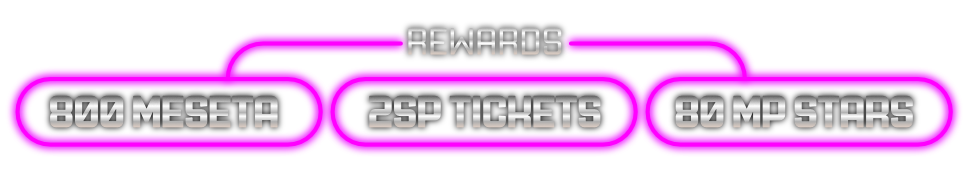
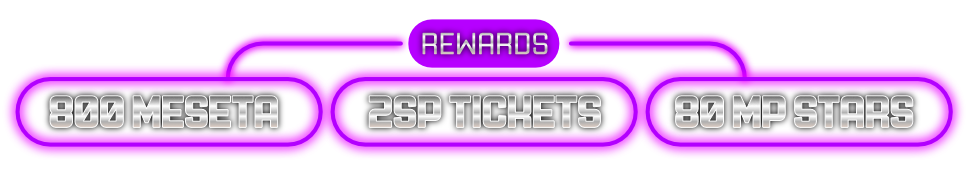
Add files via upload

Changed region(s): [[0.0309, 0.0838, 0.9897, 0.838], [0.0, 0.4749, 0.2784, 0.7542]]

diff --git a/index.html b/index.html
@@ -1,5 +1,5 @@
 <!DOCTYPE html>
-<html>
+<html style="border-radius: 14px;">
 
 <head>
     <meta charset="utf-8">
@@ -35,7 +35,7 @@
                 <div class="col-xl-6 offset-xl-0" style="padding-bottom: 0px;margin-bottom: 7px;">
                     <h3 class="text-center" style="border-radius: 0px;border-bottom-left-radius: 13px;border-bottom-right-radius: 13px;background: rgba(255,255,255,0.75);border: 11px none rgb(158,0,255);border-bottom-width: 4px;border-bottom-style: solid;color: #9e00ff;font-weight: bold;border-top-left-radius: 13px;border-top-right-radius: 13px;font-family: 'Nova Square', cursive;">SCRATCH UPDATES</h3>
                     <div class="card" data-bs-hover-animate="rubberBand" style="background: rgba(255,255,255,0.22);border-radius: 13px;margin-bottom: 10px;">
-                        <div class="card-header" style="background: rgba(255,255,255,0.22);border-radius: 0px;border-top-left-radius: 13px;border-top-right-radius: 13px;"><img src="assets/img/Scratch1.png" style="width: 100%;border-radius: 12px;font-family: 'Nova Square', cursive;margin-top: -12px;margin-bottom: 14px;border-top-left-radius: 0px;border-bottom-right-radius: -5px;border-top-right-radius: 0px;border-style: none;border-right-style: solid;border-right-color: #f34cfe;border-bottom-style: solid;border-bottom-color: #f34cfe;border-left-style: solid;border-left-color: #f34cfe;"></div>
+                        <div class="card-header" style="background: rgba(255,255,255,0.22);border-radius: 0px;border-top-left-radius: 13px;border-top-right-radius: 13px;"><img src="assets/img/Scratch1.png" style="width: 100%;border-radius: 12px;font-family: 'Nova Square', cursive;margin-top: -12px;margin-bottom: 14px;border-top-left-radius: 0px;border-bottom-right-radius: -5px;border-top-right-radius: 0px;border-style: none;border-right-style: solid;border-right-color: #9e00ff;border-bottom-style: solid;border-bottom-color: #9e00ff;border-left-style: solid;border-left-color: #9e00ff;"></div>
                         <div
                             class="card-body" style="background: rgba(255,255,255,0.22);border-radius: 13px;border-bottom-right-radius: -13px;border-bottom-left-radius: -13px;border-style: none;border-bottom: 3px solid #9e00ff;border-top-left-radius: -0px;border-top-right-radius: 0px;backdrop-filter: blur(5px);box-shadow: 0px 0px 4px;">
                             <div style="height: 37px;width: 90px;background: #4cfe7e;border-width: 68px;border-radius: 28px;">
@@ -44,7 +44,7 @@
                     </div>
                 </div>
                 <div class="card" data-bs-hover-animate="rubberBand" style="background: rgba(255,255,255,0.22);border-radius: 13px;margin-bottom: 10px;">
-                    <div class="card-header" style="background: rgba(255,255,255,0.22);border-radius: 0px;border-top-left-radius: 13px;border-top-right-radius: 13px;"><img src="assets/img/Scratch2-1.png" style="width: 100%;border-radius: 12px;font-family: 'Nova Square', cursive;margin-top: -12px;margin-bottom: 14px;border-top-left-radius: 0px;border-bottom-right-radius: -5px;border-top-right-radius: 0px;border-style: none;border-right-style: solid;border-right-color: #f34cfe;border-bottom-style: solid;border-bottom-color: #f34cfe;border-left-style: solid;border-left-color: #f34cfe;"></div>
+                    <div class="card-header" style="background: rgba(255,255,255,0.22);border-radius: 0px;border-top-left-radius: 13px;border-top-right-radius: 13px;"><img src="assets/img/Scratch2-1.png" style="width: 100%;border-radius: 12px;font-family: 'Nova Square', cursive;margin-top: -12px;margin-bottom: 14px;border-top-left-radius: 0px;border-bottom-right-radius: -5px;border-top-right-radius: 0px;border-width: 4px;border-style: none;border-right-style: solid;border-right-color: #9e00ff;border-bottom-style: solid;border-bottom-color: #9e00ff;border-left-style: solid;border-left-color: #9e00ff;"></div>
                     <div
                         class="card-body" style="background: rgba(255,255,255,0.22);border-radius: 13px;border-bottom-right-radius: -13px;border-bottom-left-radius: -13px;border-style: none;border-bottom: 3px solid #9e00ff;border-top-left-radius: -0px;border-top-right-radius: 0px;backdrop-filter: blur(5px);box-shadow: 0px 0px 4px;">
                         <div style="height: 37px;width: 123px;background: #fe4c4c;border-width: 68px;border-radius: 28px;">
@@ -56,12 +56,12 @@
         <div class="col-xl-6 offset-xl-0 mx-auto" style="padding-bottom: 10px;">
             <h3 class="text-center" style="border-radius: 0px;box-shadow: 0px 7px 11px rgba(0,0,0,0.4);border-bottom-left-radius: 13px;border-bottom-right-radius: 13px;background: rgba(255,255,255,0.74);border: 11px none #9e00ff;border-bottom-width: 4px;border-bottom-style: solid;color: #9e00ff;border-top-right-radius: 13px;border-top-left-radius: 13px;font-family: 'Nova Square', cursive;font-weight: bold;">WEEKLY TASK</h3>
             <div class="card" data-bs-hover-animate="rubberBand" style="background: rgba(255,255,255,0.22);border-radius: 13px;margin-bottom: 11px;">
-                <div class="card-header" style="background: rgba(255,255,255,0.22);border-radius: 0px;border-top-left-radius: 13px;border-top-right-radius: 13px;"><img src="assets/img/cdfscfds.png" style="width: 100%;border-radius: 14px;border-bottom-right-radius: 13px;border-bottom-left-radius: 13px;border-top-left-radius: 0px;border-top-right-radius: 0pc;border-width: 3px;border-right-style: solid;border-right-color: #f34cfe;border-bottom-style: solid;border-bottom-color: #f34cfe;border-left-style: solid;border-left-color: #f34cfe;margin-top: -12px;margin-bottom: 13px;"></div>
+                <div class="card-header" style="background: rgba(255,255,255,0.22);border-radius: 0px;border-top-left-radius: 13px;border-top-right-radius: 13px;"><img src="assets/img/sdadsaasdsad-1.png" style="width: 100%;border-radius: 14px;border-bottom-right-radius: 13px;border-bottom-left-radius: 13px;border-top-left-radius: 0px;border-top-right-radius: 0pc;margin-top: -12px;margin-bottom: 13px;border-width: 3px;border-right-style: solid;border-right-color: #9e00ff;border-bottom-style: solid;border-bottom-color: #9e00ff;border-left-style: solid;border-left-color: #9e00ff;"></div>
                 <div
                     class="card-body" style="background: rgba(255,255,255,0.22);border-radius: 13px;border-bottom-right-radius: -13px;border-bottom-left-radius: -13px;border-style: none;border-bottom: 3px solid #9e00ff;border-top-left-radius: -0px;border-top-right-radius: 0px;backdrop-filter: blur(5px);box-shadow: 0px 0px 4px;"><img class="img-fluid" src="assets/img/dedewdewdwe.png" style="width: 501px;"></div>
         </div>
         <div class="card" data-bs-hover-animate="rubberBand" style="background: rgba(255,255,255,0.22);border-radius: 13px;">
-            <div class="card-header" style="background: rgba(255,255,255,0.22);border-radius: 0px;border-top-left-radius: 13px;border-top-right-radius: 13px;"><img src="assets/img/hbhb.png" style="width: 100%;border-radius: 14px;border-bottom-right-radius: 13px;border-bottom-left-radius: 13px;border-top-left-radius: 0px;border-top-right-radius: 0pc;border-width: 3px;border-right-style: solid;border-right-color: #f34cfe;border-bottom-style: solid;border-bottom-color: #f34cfe;border-left-style: solid;border-left-color: #f34cfe;margin-top: -12px;margin-bottom: 13px;"></div>
+            <div class="card-header" style="background: rgba(255,255,255,0.22);border-radius: 0px;border-top-left-radius: 13px;border-top-right-radius: 13px;"><img src="assets/img/hbhb-1.png" style="width: 100%;border-radius: 14px;border-bottom-right-radius: 13px;border-bottom-left-radius: 13px;border-top-left-radius: 0px;border-top-right-radius: 0pc;margin-top: -12px;margin-bottom: 13px;border-width: 3px;border-right-style: solid;border-right-color: #9e00ff;border-bottom-style: solid;border-bottom-color: #9e00ff;border-left-style: solid;border-left-color: #9e00ff;"></div>
             <div
                 class="card-body" style="background: rgba(255,255,255,0.22);border-radius: 13px;border-bottom-right-radius: -13px;border-bottom-left-radius: -13px;border-style: none;border-bottom: 3px solid #9e00ff;border-top-left-radius: -0px;border-top-right-radius: 0px;backdrop-filter: blur(5px);box-shadow: 0px 0px 4px;"><img class="img-fluid" src="assets/img/sxcscssdc.png" style="width: 501px;"></div>
     </div>
@@ -69,25 +69,25 @@
     <div class="col-xl-6 offset-xl-0 flex-wrap" style="padding-bottom: px;">
         <h3 class="text-center" style="border-radius: 0px;box-shadow: 0px 7px 11px rgba(0,0,0,0.4);border-bottom-left-radius: 13px;border-bottom-right-radius: 13px;background: rgba(255,255,255,0.74);color: #9e00ff;border-top-left-radius: 13px;border-top-right-radius: 13px;font-family: 'Nova Square', cursive;border: 11px none #9e00ff;font-weight: bold;border-bottom-width: 4px;border-bottom-style: solid;">CONTENT UPDATES</h3>
         <div class="card" data-bs-hover-animate="rubberBand" style="background: rgba(255,255,255,0.22);border-radius: 13px;margin-bottom: 10px;">
-            <div class="card-header" style="background: rgba(255,255,255,0.22);border-radius: 0px;border-top-left-radius: 13px;border-top-right-radius: 13px;"><img src="assets/img/Region1.png" style="width: 100%;border-radius: 12px;border-right-style: solid;border-right-color: #f34cfe;border-bottom-style: solid;border-bottom-color: #f34cfe;border-left-style: solid;border-left-color: #f34cfe;margin-top: -12px;border-top-left-radius: 0px;border-top-right-radius: 0px;border-bottom-right-radius: 14px;border-bottom-left-radius: 14px;margin-bottom: 13px;"></div>
+            <div class="card-header" style="background: rgba(255,255,255,0.22);border-radius: 0px;border-top-left-radius: 13px;border-top-right-radius: 13px;"><img src="assets/img/Region1.png" style="width: 100%;border-radius: 12px;margin-top: -12px;border-top-left-radius: 0px;border-top-right-radius: 0px;border-bottom-right-radius: 14px;border-bottom-left-radius: 14px;margin-bottom: 13px;border-right-style: solid;border-right-color: #9e00ff;border-bottom-style: solid;border-bottom-color: #9e00ff;border-left-style: solid;border-left-color: #9e00ff;"></div>
             <div
                 class="card-body" style="background: rgba(255,255,255,0.22);border-radius: 13px;border-bottom-right-radius: -13px;border-bottom-left-radius: -13px;border-style: none;border-bottom: 3px solid #9e00ff;border-top-left-radius: -0px;border-top-right-radius: 0px;backdrop-filter: blur(5px);box-shadow: 0px 0px 4px;">
-                <div class="text-center"><a class="btn btn-primary text-center d-flex justify-content-center justify-content-xl-center" data-toggle="collapse" aria-expanded="false" aria-controls="collapse-1" href="#collapse-1" role="button" style="background: rgba(255,255,255,0.48);border-radius: 98px;border: 4px solid #f34cfe;color: #9e00ff;">MORE DETAIL</a>
+                <div class="text-center"><a class="btn btn-primary text-center d-flex justify-content-center justify-content-xl-center" data-toggle="collapse" aria-expanded="false" aria-controls="collapse-2" href="#collapse-2" role="button" style="background: rgba(255,255,255,0.48);border-radius: 98px;color: #9e00ff;border: 4px solid #9e00ff ;">MORE DETAIL</a>
                     <div
-                        class="collapse" id="collapse-1">
-                        <p class="text-left" style="padding-top: 17px;padding-bottom: 27px;margin-bottom: -23px;padding-right: 10px;padding-left: 10px;"><strong>Story Chapter 4</strong><br><strong>Class Level 70</strong><br><strong>New Class Skills</strong><br><strong>Stia Quests</strong><br><strong>Fields Races</strong><br><strong>New Augments</strong><br></p>
+                        class="collapse" id="collapse-2">
+                        <p class="text-left" style="padding-top: 10px;padding-bottom: 10px;margin-bottom: -1px;font-size: 16px;text-align: center;font-weight: bold;font-style: normal;font-family: 'Nova Square', cursive;padding-left: 10px;padding-right: 10px;overflow-y: auto;height: 220px;margin-top: 13px;border-radius: 14px;border: 4px solid #9e00ff ;"><strong>Story Chapter 4</strong><br><strong>Class Level 70</strong><br><strong>New Class Skills</strong><br><strong>Stia Quests</strong><br><strong>Fields Races</strong><br><strong>New Augments</strong><br><br></p>
                 </div>
         </div>
     </div>
     </div>
     <div class="card" data-bs-hover-animate="rubberBand" style="background: rgba(255,255,255,0.22);border-radius: 13px;margin-bottom: 10px;">
-        <div class="card-header" style="background: rgba(255,255,255,0.22);border-radius: 0px;border-top-left-radius: 13px;border-top-right-radius: 13px;"><img src="assets/img/content2.png" style="width: 100%;border-radius: 12px;border-right-style: solid;border-right-color: #f34cfe;border-bottom-style: solid;border-bottom-color: #f34cfe;border-left-style: solid;border-left-color: #f34cfe;margin-top: -12px;border-top-left-radius: 0px;border-top-right-radius: 0px;border-bottom-right-radius: 14px;border-bottom-left-radius: 14px;margin-bottom: 13px;"></div>
+        <div class="card-header" style="background: rgba(255,255,255,0.22);border-radius: 0px;border-top-left-radius: 13px;border-top-right-radius: 13px;"><img src="assets/img/content2.png" style="width: 100%;border-radius: 12px;margin-top: -12px;border-top-left-radius: 0px;border-top-right-radius: 0px;border-bottom-right-radius: 14px;border-bottom-left-radius: 14px;margin-bottom: 13px;border-right-style: solid;border-right-color: #9e00ff;border-bottom-style: solid;border-bottom-color: #9e00ff;border-left-style: solid;border-left-color: #9e00ff;"></div>
         <div
             class="card-body" style="background: rgba(255,255,255,0.22);border-radius: 13px;border-bottom-right-radius: -13px;border-bottom-left-radius: -13px;border-style: none;border-bottom: 3px solid #9e00ff;border-top-left-radius: -0px;border-top-right-radius: 0px;backdrop-filter: blur(5px);box-shadow: 0px 0px 4px;">
-            <div class="text-center"><a class="btn btn-primary text-center d-flex justify-content-center justify-content-xl-center" data-toggle="collapse" aria-expanded="false" aria-controls="collapse-2" href="#collapse-2" role="button" style="background: rgba(255,255,255,0.48);border-radius: 98px;border: 4px solid #f34cfe;color: #9e00ff;">MORE DETAIL</a>
+            <div class="text-center"><a class="btn btn-primary text-center d-flex justify-content-center justify-content-xl-center" data-toggle="collapse" aria-expanded="false" aria-controls="collapse-3" href="#collapse-3" role="button" style="background: rgba(255,255,255,0.48);border-radius: 98px;color: #9e00ff;border: 4px solid #9e00ff ;">MORE DETAIL</a>
                 <div
-                    class="collapse" id="collapse-2">
-                    <p class="text-left" style="padding-top: 17px;padding-bottom: 27px;margin-bottom: -23px;font-size: 16px;text-align: center;font-weight: bold;font-style: normal;font-family: 'Nova Square', cursive;padding-left: 10px;padding-right: 10px;"><strong>Limited-time Event: Spring '23!</strong><br><strong>Mischief Symbols</strong><br><strong>Hululu Rappy</strong><br><strong>Hululu Emperappy</strong><br><strong>Get the new 8-star Trunkul series weapons</strong><br><strong>New Augments</strong><br><strong>Co-op Trials with special characters!</strong><br><strong>Event navigator: Xiandy</strong><br><strong>The Spring '23 Special Scratch Ticket</strong><br><strong>Seasonal Points Exchange Shop!</strong><br><strong>Limited-time Quest: Drill: Unidentified Region A16 and more</strong><br><strong>Mediola Outer Area 2 Board (Stage 1), added to Field Races!</strong><br></p>
+                    class="collapse" id="collapse-3">
+                    <p class="text-left" style="padding-top: 10px;padding-bottom: 10px;margin-bottom: -1px;font-size: 16px;text-align: center;font-weight: bold;font-style: normal;font-family: 'Nova Square', cursive;padding-left: 10px;padding-right: 10px;overflow-y: auto;height: 220px;margin-top: 13px;border-radius: 14px;border: 4px solid #9e00ff ;"><strong>Limited-time Event: Spring '23!</strong><br><strong>Mischief Symbols</strong><br><strong>Hululu Rappy</strong><br><strong>Hululu Emperappy</strong><br><strong>Get the new 8-star Trunkul series weapons</strong><br><strong>New Augments</strong><br><strong>Co-op Trials with special characters!</strong><br><strong>Event navigator: Xiandy</strong><br><strong>The Spring '23 Special Scratch Ticket</strong><br><strong>Seasonal Points Exchange Shop!</strong><br><strong>Limited-time Quest: Drill: Unidentified Region A16 and more</strong><br><strong>Mediola Outer Area 2 Board (Stage 1), added to Field Races!</strong><br></p>
             </div>
     </div>
     </div>
